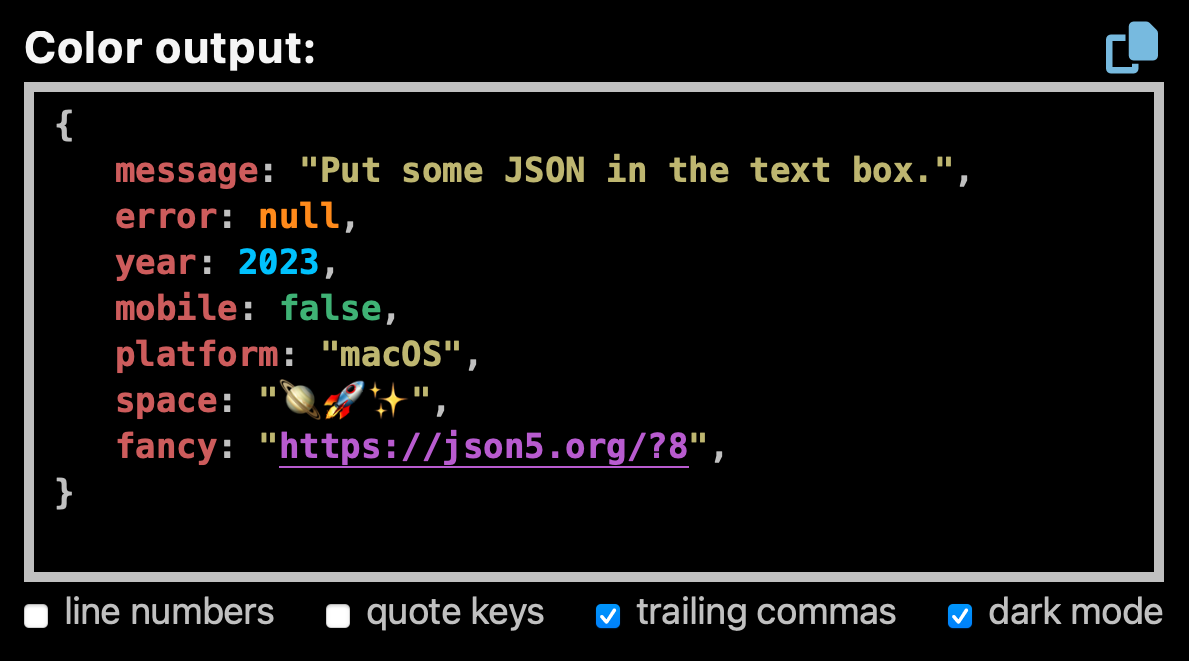
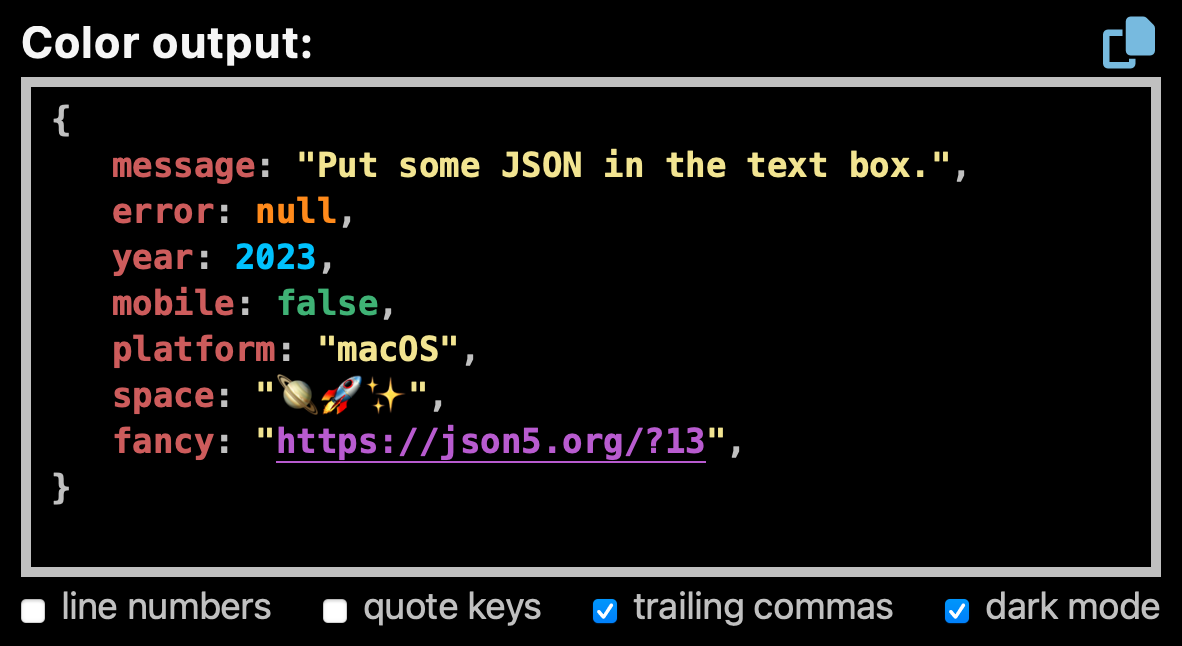
Slightly brighter yellow for strings in dark mode

diff --git a/src/pretty-print-json.css b/src/pretty-print-json.css
@@ -29,7 +29,7 @@ ol.json-lines >li:hover           { background-color: lemonchiffon; }
 /* Dark Mode */
 .dark-mode .json-container                   { background-color: black; }
 .dark-mode .json-key                         { color: indianred; }
-.dark-mode .json-string                      { color: darkkhaki; }
+.dark-mode .json-string                      { color: khaki; }
 .dark-mode .json-number                      { color: deepskyblue; }
 .dark-mode .json-boolean                     { color: mediumseagreen; }
 .dark-mode .json-null                        { color: darkorange; }

diff --git a/src/pretty-print-json.prefers.css b/src/pretty-print-json.prefers.css
@@ -30,7 +30,7 @@ ol.json-lines >li:hover           { background-color: lemonchiffon; }
 @media (prefers-color-scheme: dark) {
    .json-container                   { background-color: black; }
    .json-key                         { color: indianred; }
-   .json-string                      { color: darkkhaki; }
+   .json-string                      { color: khaki; }
    .json-number                      { color: deepskyblue; }
    .json-boolean                     { color: mediumseagreen; }
    .json-null                        { color: darkorange; }

diff --git a/src/pretty-print-json.dark-mode.css b/src/pretty-print-json.dark-mode.css
@@ -12,7 +12,7 @@ ol.json-lines >li::marker { font-family: system-ui, sans-serif; font-weight: nor
 /* Dark Mode */
 .json-container                   { background-color: black; }
 .json-key                         { color: indianred; }
-.json-string                      { color: darkkhaki; }
+.json-string                      { color: khaki; }
 .json-number                      { color: deepskyblue; }
 .json-boolean                     { color: mediumseagreen; }
 .json-null                        { color: darkorange; }

diff --git a/README.md b/README.md
@@ -10,8 +10,7 @@ _Pretty-print JSON data into HTML to indent and colorize (written in functional 
 [![Hits](https://data.jsdelivr.com/v1/package/npm/pretty-print-json/badge?style=rounded)](https://www.jsdelivr.com/package/npm/pretty-print-json)
 [![Build](https://github.com/center-key/pretty-print-json/workflows/build/badge.svg)](https://github.com/center-key/pretty-print-json/actions/workflows/run-spec-on-push.yaml)
 
-<img width=350 alt=screenshot
-   src=https://3.bp.blogspot.com/-M13HQRG7cqQ/XaQvF0Q_KyI/AAAAAAAAJeg/3_CTIgPAh5Yqa29aYPvB1aTO9VsUlksLACNcBGAsYHQ/s1600/pretty-print-json.png>
+![Screenshot](docs/screenshot.png)
 
 ## A) Try It Out
 Interactive online tool to format JSON:<br>
@@ -70,12 +69,12 @@ elem.innerHTML = prettyPrintJson.toHtml(data);
 | `quoteKeys`     | **boolean** | `false` | Always double quote key names.                                  |
 | `trailingComma` | **boolean** | `false` | Add a comma after the last item in arrays and objects.<b>**</b> |
 
-![Screenshot](docs/screenshot-dark.png)
-
 <b>*</b>When setting `lineNumbers` to `true`, do not use the `<pre>` tag as the `white-space: pre;`
 styling is applied to each line (`<li>`).
 
 <b>**</b>HEADS UP: In a future release, the default for `trailingComma` will be switched to `true`.
+
+![Screenshot](docs/screenshot-dark.png)
 
 ## D) TypeScript Declarations
 See the TypeScript declarations at the top of the
